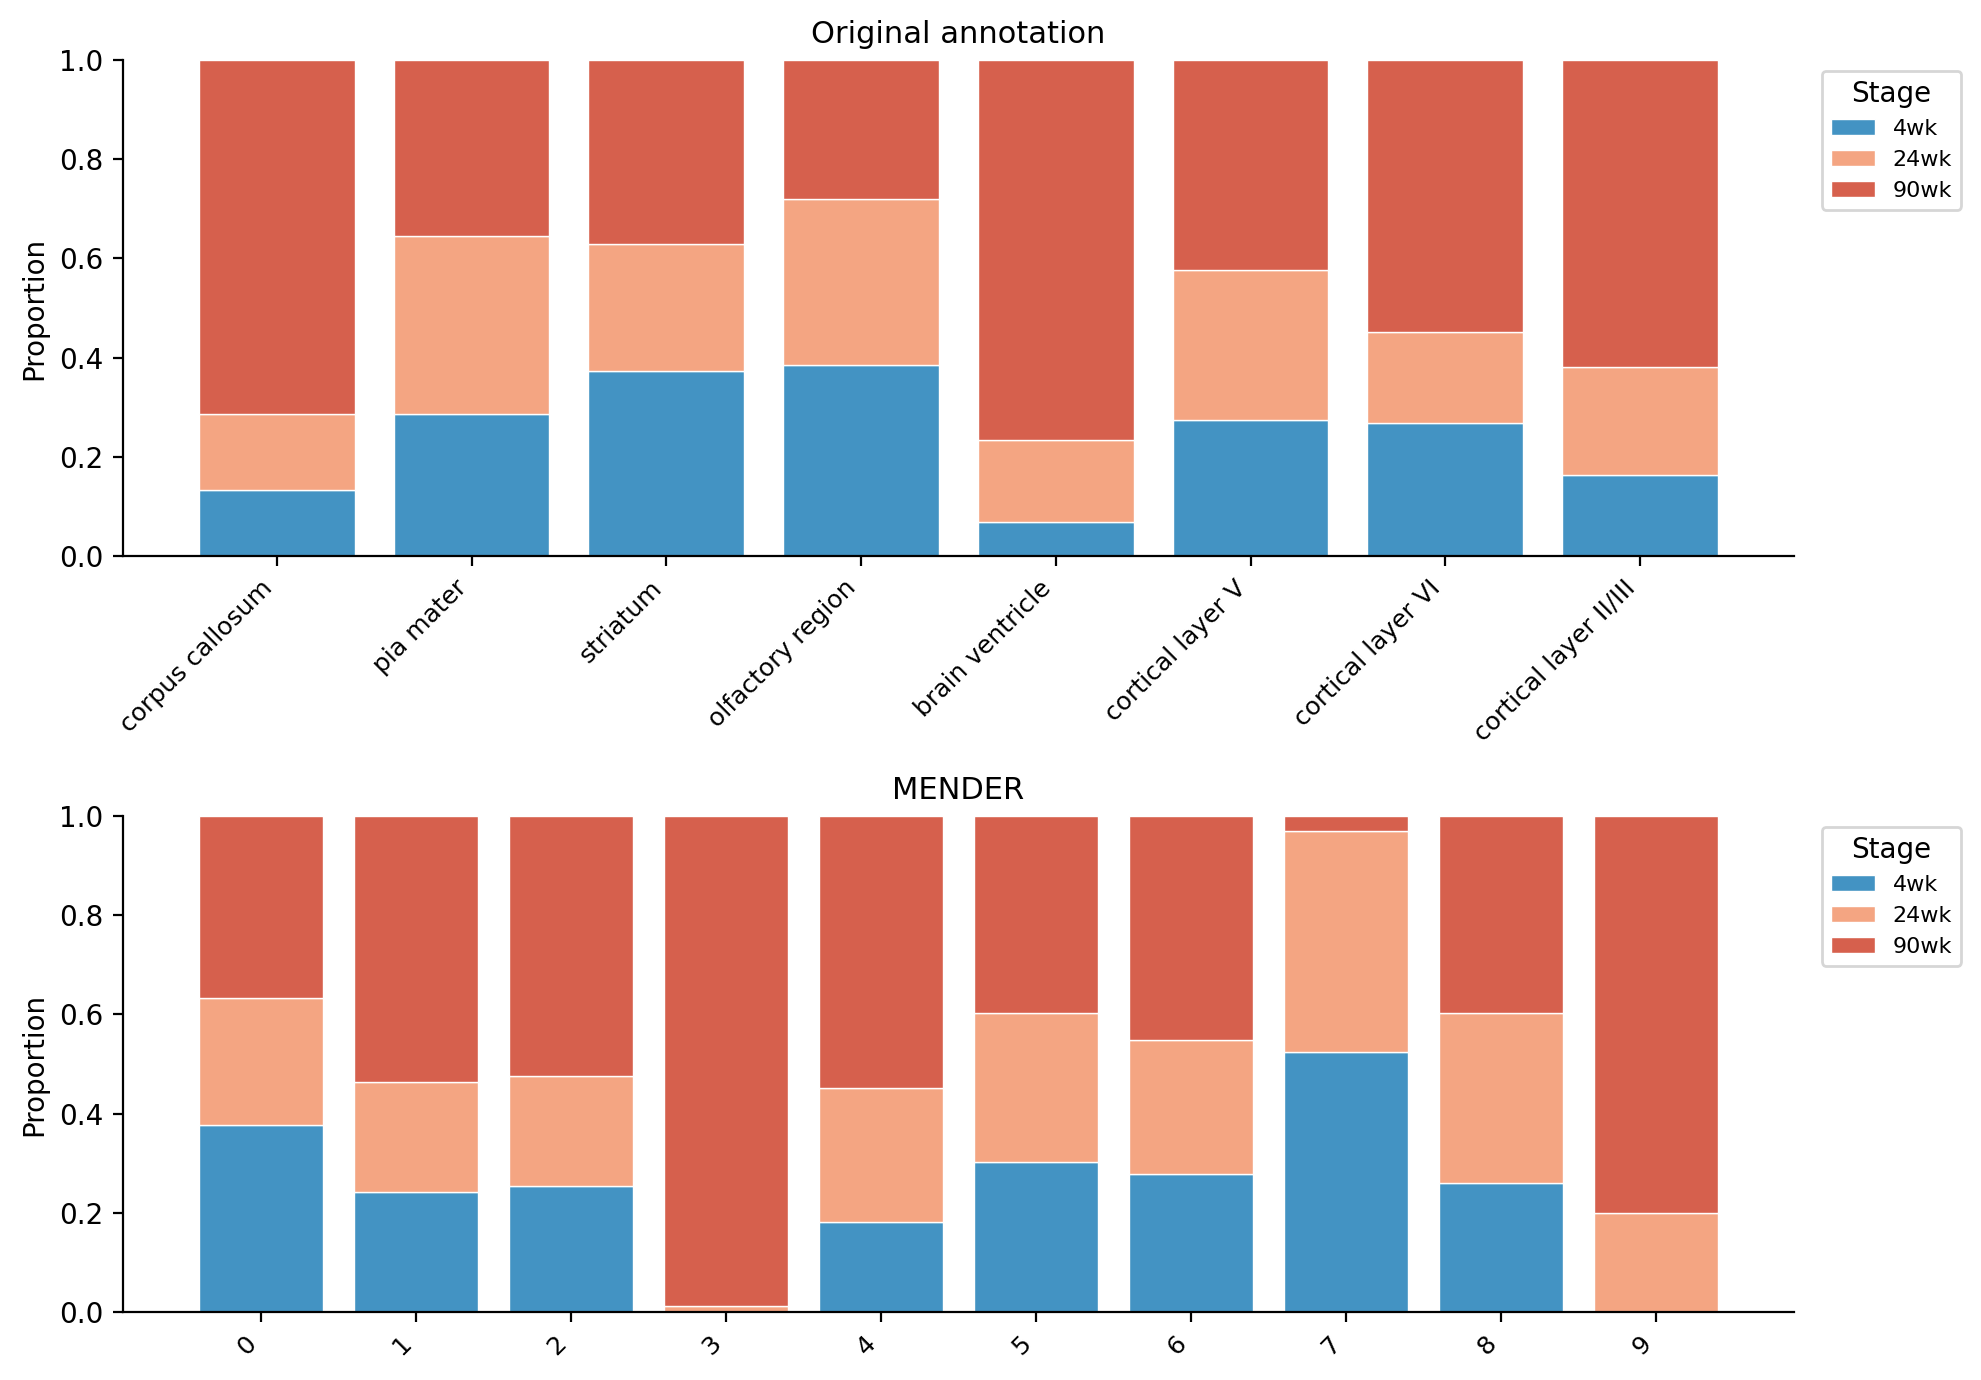
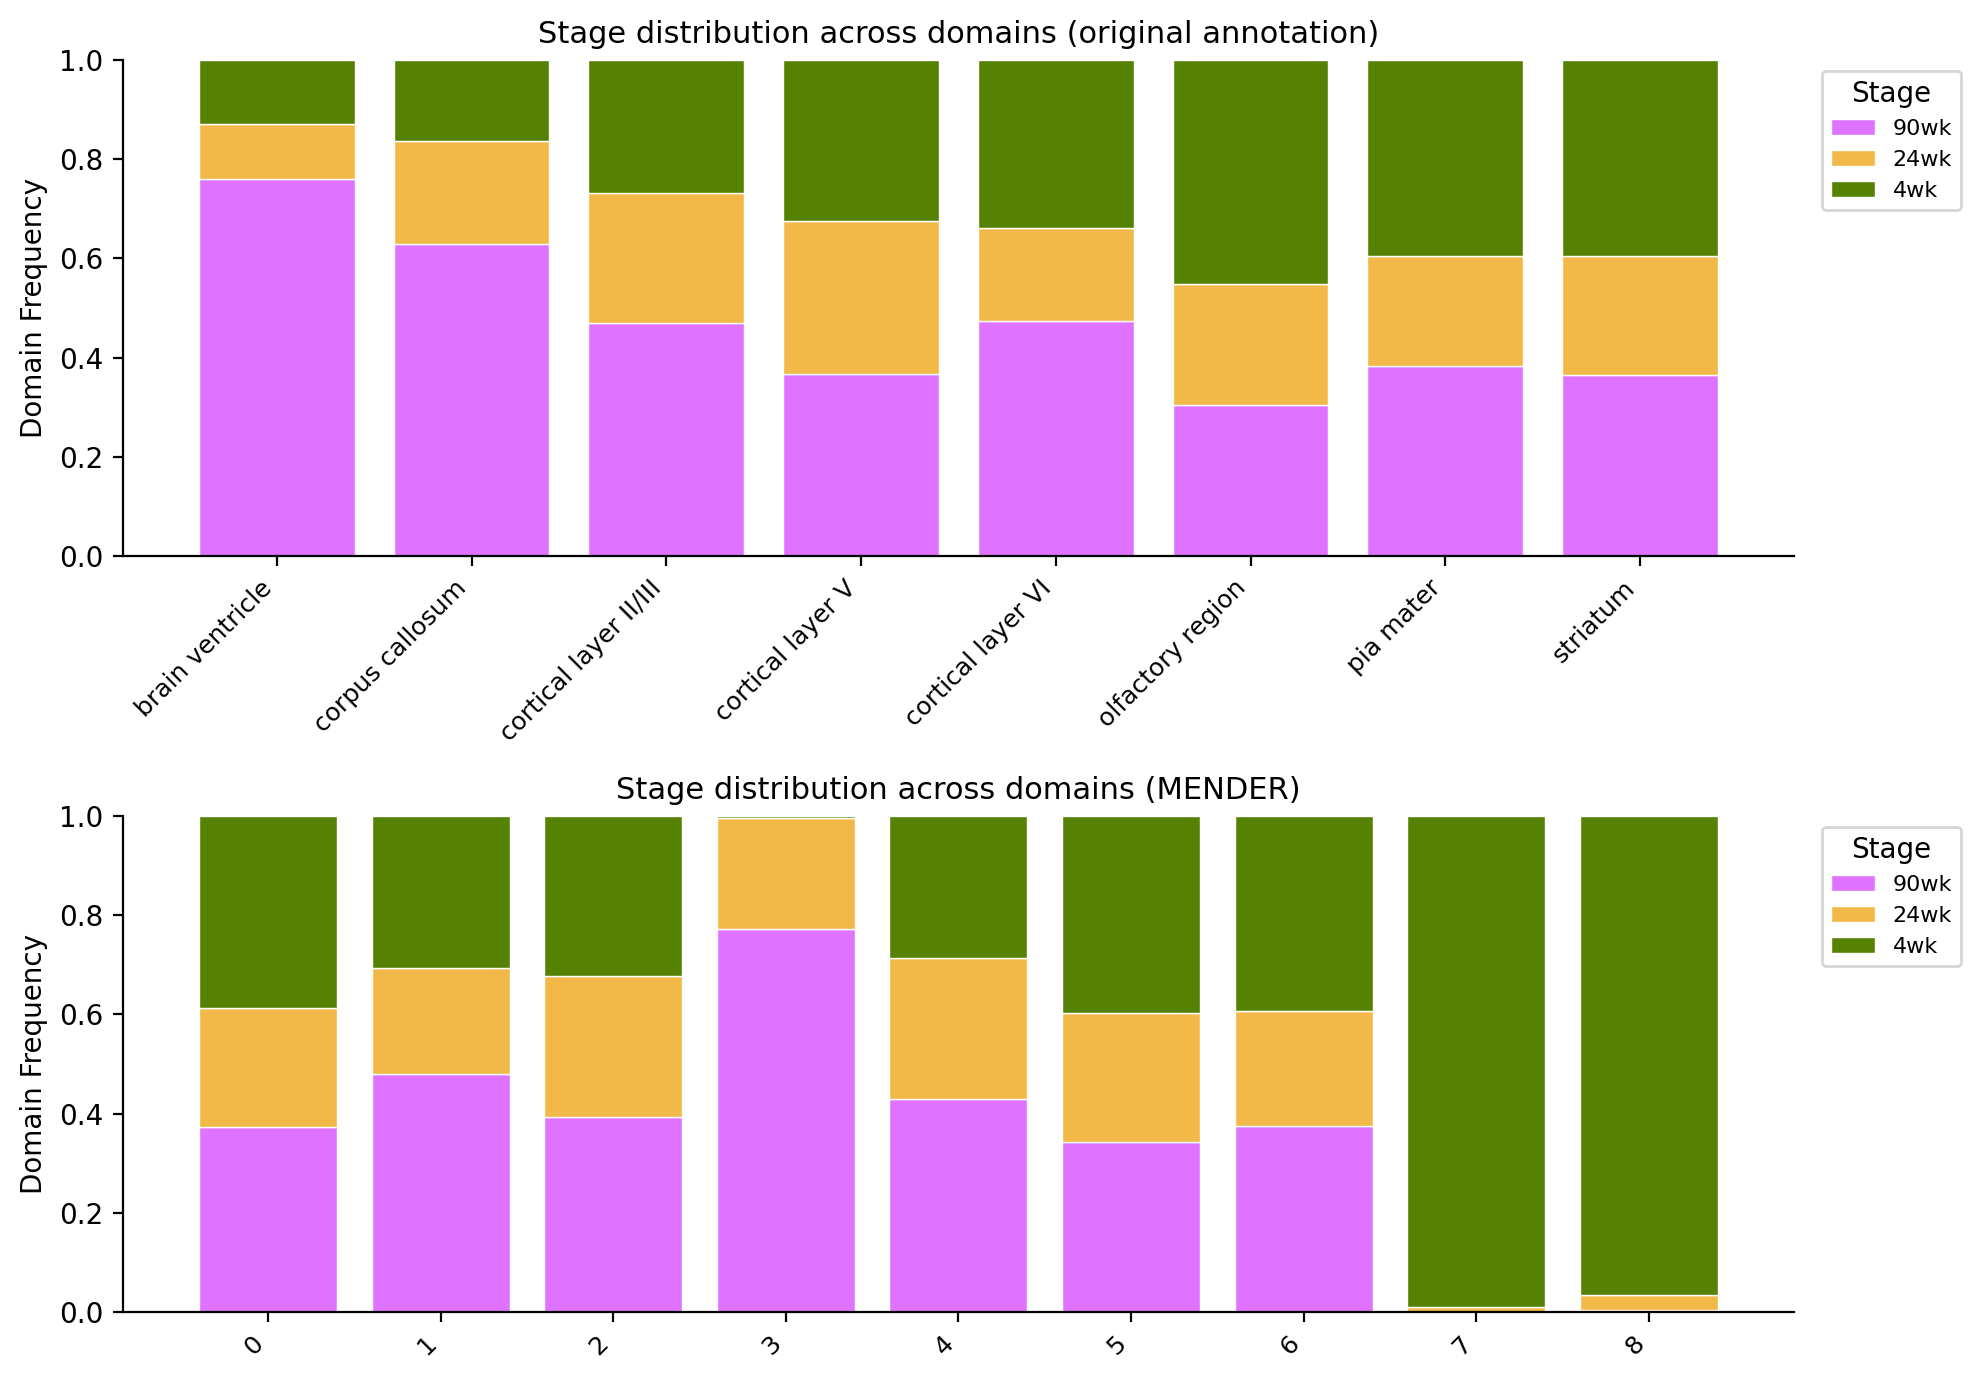
Update to use all slices of data to reproduce 5H

diff --git a/subfigure/subfigure5.py b/subfigure/subfigure5.py
@@ -12,19 +12,20 @@ import pysodb
 from sklearn.metrics import *
 import time 
 
-#NOTE for runtime reasons, this code is run for 1 slice per age category only --> the numbers will not directly match the figure in the paper. 
-#Whenever the full dataset is used (31 slices), my computer crashes. 
+#NOTE for runtime reasons, this code can be run for 1 slice per age category only --> the numbers will not directly match the figure in the paper. 
 
 if __name__ == '__main__':
 
+# ----------------------------------- RUN below here to retrieve data first, either from file or from the sodb connection ------------------------------
+
     n_cores = os.cpu_count()  # check how many cores you have
-    print(n_cores)            # e.g. 4 or 8 on a typical laptop
+    print(f'Number of cores available: {n_cores}\n')            # e.g. 4 or 8 on a typical laptop
 
     if os.path.exists('Allen2022_MERFISH_aging.h5ad'):
-        # Fast path: load from disk
+        print(f'Raw AnnData already exists \n')
         adata_raw = sc.read_h5ad('Allen2022_MERFISH_aging.h5ad')
     else:
-        # Slow path: fetch from SODB and save
+        print(f'Raw AnnData does not exist, currently fetching from SODB \n')
         sodb = pysodb.SODB()
         adata_dict = sodb.load_dataset('Allen2022Molecular_aging')
 
@@ -40,83 +41,119 @@ if __name__ == '__main__':
         adata_raw.obs['ct'] = adata_raw.obs['clust_annot'].astype('category')
 
         adata_raw.write_h5ad('Allen2022_MERFISH_aging.h5ad')
+        print(f'Raw AnnData written to file \n')
 
-# print(adata_raw.obs.columns.tolist())
-# print(adata_raw.obs['age'].unique())
-# print(adata_raw.obs.groupby('slice_id')['age'].first().sort_values())
+    print(f'all columns in raw data: {adata_raw.obs.columns.tolist()} \n')
+    print(f'raw data age categories: {adata_raw.obs["age"].unique().tolist()} \n')
+    print(f'raw data cluster annotation categories: {adata_raw.obs["clust_annot"].unique().tolist()} \n')
+    print(f'raw data slice numbers: {adata_raw.obs["slice"].unique().tolist()} \n')
+    print(f'raw data organism: {adata_raw.obs["organism"].unique().tolist()} \n')
+    print(f'raw data tissue categories: {adata_raw.obs["tissue"].unique().tolist()} \n')
+    print(f'raw data cell type categories: {adata_raw.obs["cell_type_annot"].unique().tolist()} \n')
+    print(adata_raw.obs.groupby('slice_id')['age'].first().sort_values())
+    print('\n') 
 
-#! tot hier, fetch data first
+    # convert age to stage 
+    adata_raw.obs['stage'] = adata_raw.obs['age'].astype('category')
 
-# Map slice IDs to aging stages
-# print(adata_raw.obs.groupby('slice_id')['age'].first().sort_values())
-    slice_4wk  = 'MsBrainAgingSpatialDonor_4_2'   # one 4-week slice
-    slice_24wk = 'MsBrainAgingSpatialDonor_10_0'   # one 24-week slice
-    slice_90wk = 'MsBrainAgingSpatialDonor_3_0'   # one 90-week slice
+# ------------------------------------------ RUN code below to get only a subset of the raw data slices (for faster plotting) ------------------------------
+    # gebruik 1 slice per age voor sneller analyse 
+    # print(adata_raw.obs.groupby('slice_id')['age'].first().sort_values())
+    # slice_4wk  = 'MsBrainAgingSpatialDonor_4_2'   # one 4-week slice
+    # slice_24wk = 'MsBrainAgingSpatialDonor_10_0'   # one 24-week slice
+    # slice_90wk = 'MsBrainAgingSpatialDonor_3_0'   # one 90-week slice
 
-    keep = [slice_4wk, slice_24wk, slice_90wk]
-    adata_sub = adata_raw[adata_raw.obs['slice_id'].isin(keep)].copy()
-    adata_sub.obs['slice_id'] = adata_sub.obs['slice_id'].astype('category')
-    adata_sub.obs['stage'] = adata_sub.obs['age'].astype('category')
+    # keep = [slice_4wk, slice_24wk, slice_90wk]
+    # adata_sub = adata_raw[adata_raw.obs['slice_id'].isin(keep)].copy()
+    # adata_sub.obs['slice_id'] = adata_sub.obs['slice_id'].astype('category')
+    # adata_sub.obs['stage'] = adata_sub.obs['age'].astype('category')
 
-#run MENDER 
-    adata = adata_sub.copy()
-    batch_obs = 'slice_id'
-    gt_obs = 'gt'
-    scale = 6
-    radius = 15
-    time_start = time.time()
-    n_cls = np.unique(adata_sub.obs[gt_obs]).shape[0]
 
-    msm = MENDER.MENDER(
-        adata,
-        batch_obs=batch_obs,
-        ct_obs='ct',
-        random_seed=0
-    )
+#-------------------------------------------- RUN Mender (if necessary) and plot results) -------------------------------------------------------------------
+#TODO: only if the mender h5ad doesn't exist yet! 
+#TODO: make decision tree for usage of all vs just 1 slice per time stage (save two different h5ad data outputs MENDER)
 
-    msm.prepare()
-    msm.set_MENDER_para(
-        n_scales=scale,
-        nn_mode='radius',
-        nn_para=radius,
-    )
-    msm.run_representation_mp(n_cores-2)
+    if os.path.exists('Allen2022_MERFISH_aging_MENDER_FULL.h5ad'):
+        print('Full MENDER file already exists! retrieving from file \n')
+        adata_mender = sc.read_h5ad('Allen2022_MERFISH_aging_MENDER_FULL.h5ad')
 
-# Sub-clustering to get 9 domains (as in Fig. 5A–H)
-    msm.run_clustering_normal(-0.5)
+    elif os.path.exists('Allen2022_MERFISH_aging_MENDER_sub.h5ad'): 
+        print('Subset of MENDER results already exist! retrieving from file \n')
+        adata_mender = sc.read_h5ad('Allen2022_MERFISH_aging_MENDER_sub.h5ad')
 
-    time_cost = time.time()-time_start
-    print(f'this run took {time_cost} seconds for {adata_sub.shape[0]} cells')
+    else: 
+        print('MENDER output data does not exist yet! Will run MENDER now \n')
 
-    adata_mender = msm.adata_MENDER.copy()
-    msm.adata_MENDER.write_h5ad('Allen2022_MERFISH_aging_MENDER.h5ad')
-    adata_mender.obs['stage'] = adata_sub.obs['stage'].values
+        adata = adata_raw.copy()
+        batch_obs = 'slice_id'
+        gt_obs = 'gt'
+        scale = 6
+        radius = 15
+        time_start = time.time()
+        n_cls = np.unique(adata_raw.obs[gt_obs]).shape[0]
 
-    # now plot 
-    # Color palette matching the paper (3 stages)
-    stage_order = ['4wk', '24wk', '90wk']   # adjust to match actual values
+        msm = MENDER.MENDER(
+            adata,
+            batch_obs=batch_obs,
+            ct_obs='ct',
+            random_seed=0
+        )
+
+        msm.prepare()
+        msm.set_MENDER_para(
+            n_scales=scale,
+            nn_mode='radius',
+            nn_para=radius,
+        )
+        msm.run_representation_mp(n_cores-2)
+
+        # clustering to get 9 domains as shown in tutorial 
+        msm.run_clustering_normal(-0.5)
+
+        time_cost = time.time()-time_start
+        print(f'this run took {time_cost} seconds for {adata_raw.shape[0]} cells')
+
+        adata_mender = msm.adata_MENDER.copy()
+        if len(adata_raw.obs["slice_id"].unique().tolist()) == 31:  # There are 31 batches in the original data. Save in respective anndata files. 
+            msm.adata_MENDER.write_h5ad('Allen2022_MERFISH_aging_MENDER_FULL.h5ad')
+            print(f'Full MENDER results written to file! \n')
+        else: 
+            msm.adata_MENDER.write_h5ad('Allen2022_MERFISH_aging_MENDER_sub.h5ad')
+            print(f'Subset of MENDER results written to file! \n')
+
+    #---------------------------------------------------------- plotting done from here -------------------------------------------------------------------------
+    print(f'Adding stage to mender results  \n')
+    adata_mender.obs['stage'] = adata_raw.obs['stage'].values 
+    
+    # Color palette matching stages in paper
+    stage_order = ['90wk', '24wk', '4wk']
     stage_colors = {
-        '4wk':  '#4393C3',
-        '24wk': '#F4A582',
-        '90wk': '#D6604D',
+        '90wk': '#DF73FF',
+        '24wk': '#F2B949',
+        '4wk':  '#568203',
     }
+    gt_order = ['brain ventricle', 'corpus callosum', 'cortical layer II/III', 'cortical layer V', 'cortical layer VI', 'olfactory region', 'pia mater', 'striatum'] 
 
     fig, axes = plt.subplots(2, 1, figsize=(10, 7))
 
     for ax, domain_col, title in zip(
         axes,
         ['gt', 'MENDER'],
-        ['Original annotation', 'MENDER']
+        ['Stage distribution across domains (original annotation)', 'Stage distribution across domains (MENDER)']
     ):
         # Build a cross-tabulation: domain × stage (cell counts)
         ct = pd.crosstab(
             adata_mender.obs[domain_col],
             adata_mender.obs['stage']
         )
-        # Normalize to proportions per domain (row-normalize)
+        # Normalize to frequencies per domain 
         ct_norm = ct.div(ct.sum(axis=1), axis=0)
         # Reorder columns to match stage order
         ct_norm = ct_norm[[s for s in stage_order if s in ct_norm.columns]]
+        
+        #reorder bars to match the original paper 
+        if domain_col == 'gt':
+            ct_norm = ct_norm.reindex([d for d in gt_order if d in ct_norm.index])
         
         # Stacked bar plot
         bottom = np.zeros(len(ct_norm))
@@ -136,7 +173,7 @@ if __name__ == '__main__':
         
         ax.set_xticks(range(len(ct_norm)))
         ax.set_xticklabels(ct_norm.index, rotation=45, ha='right', fontsize=9)
-        ax.set_ylabel('Proportion', fontsize=10)
+        ax.set_ylabel('Domain Frequency', fontsize=10)
         ax.set_title(title, fontsize=11)
         ax.set_ylim(0, 1)
         ax.legend(title='Stage', bbox_to_anchor=(1.01, 1), loc='upper left', fontsize=8)
